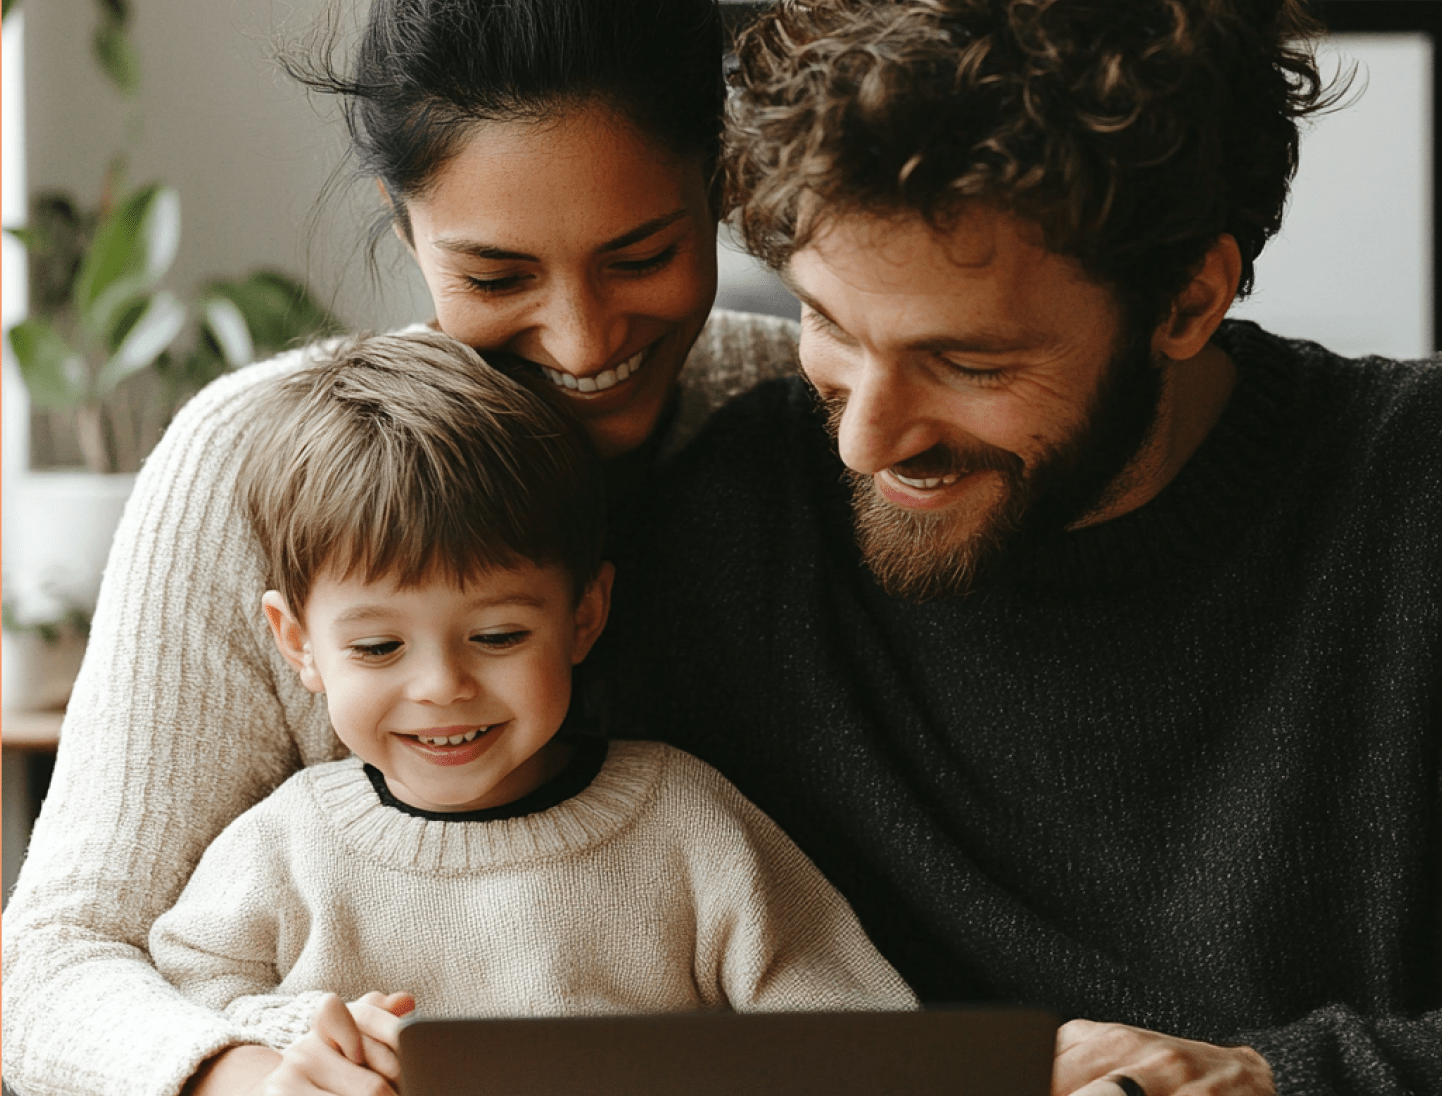
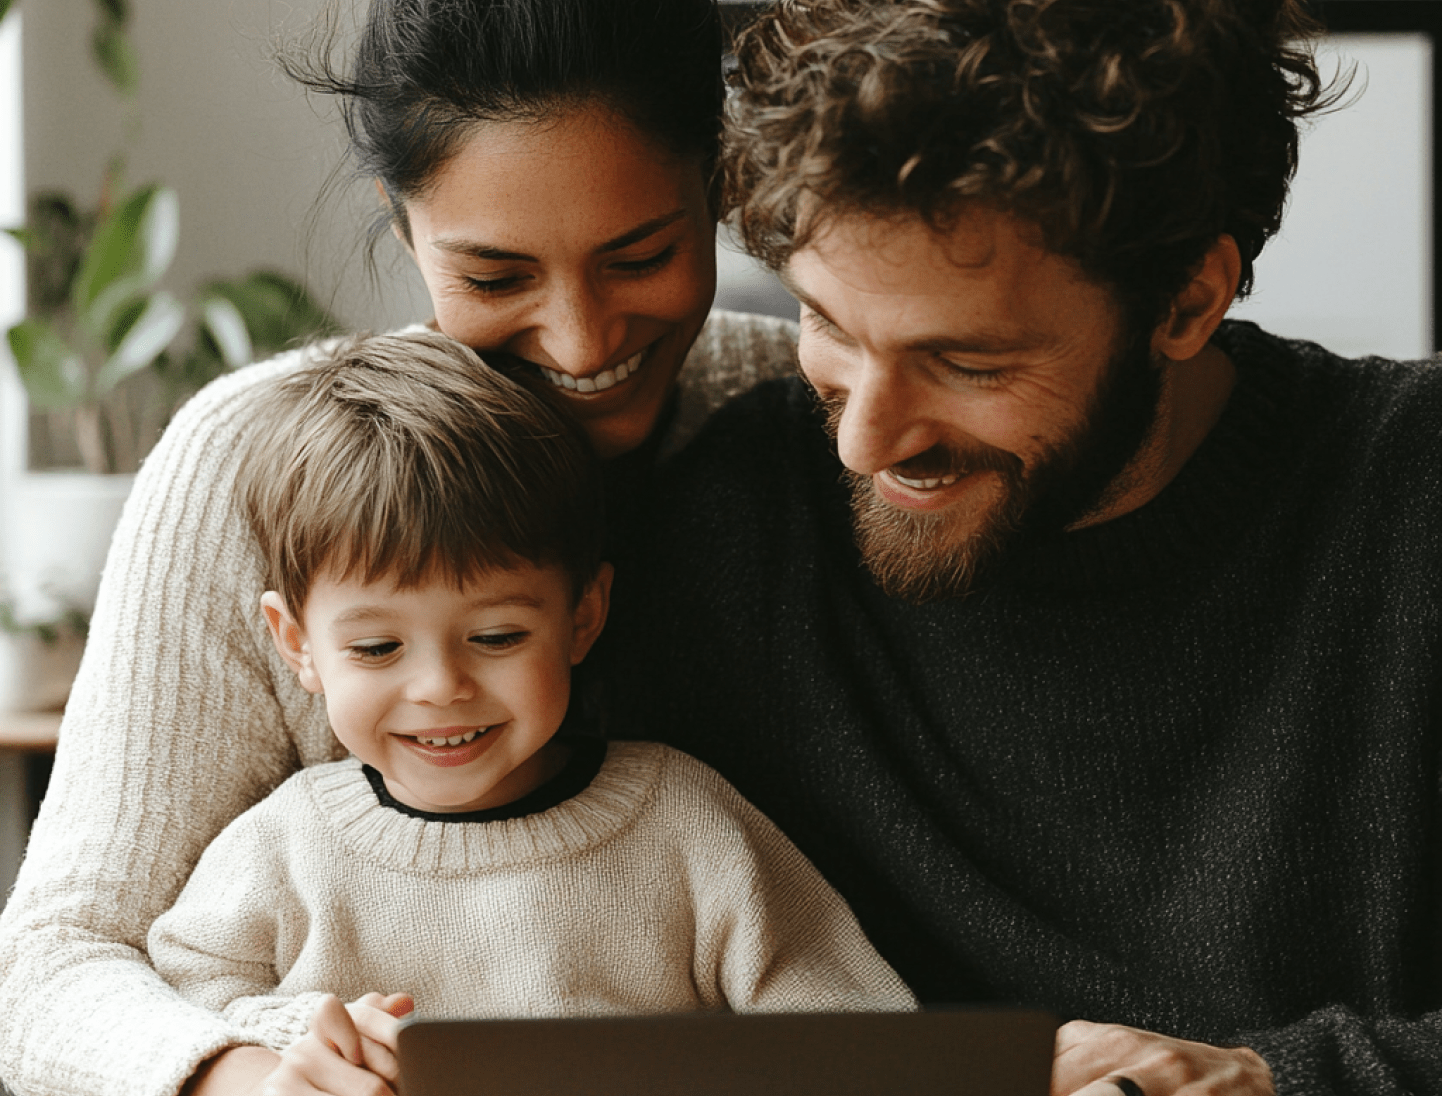
fixes

diff --git a/Template_03/index.html b/Template_03/index.html
@@ -156,6 +156,7 @@
           <img src="images/card-image-01.png" />
         </figure>
         <div class="card-body">
+          <div class="tag special">Buyers</div>
           <h6 class="card-title">Sell your property with ease</h6>
           <p class="font-bold text-[28px] leading-[1.2] mb-5">We know time is money, so use our AI technology to list your property in minutes and negotiate only with pre approved buyers</p>
           <div class="card-actions">
@@ -169,6 +170,7 @@
           <img src="images/card-image-02.png" />
         </figure>
         <div class="card-body">
+          <div class="tag special">Sellers</div>
           <h6 class="card-title">Looking for your next house?</h6>
           <p class="font-bold text-[28px] leading-[1.2] mb-5">Stop chasing the banks and get your mortgage pre-approval in just 24 hours</p>
           <div class="card-actions">

diff --git a/Template_03/style.css b/Template_03/style.css
@@ -135,6 +135,12 @@ body {
   color: #143D56;
 }
 
+.tag.special {
+  top: 28px;
+  left: 40px;
+  min-width: 96px;
+}
+
 h2 {
   color: var(--color-light);
   font-size: 60px;
@@ -158,6 +164,10 @@ h6 {
   font-family: 'graphik';
   font-weight: 500;
   font-size: 14px;
+}
+
+.card {
+  position: relative;
 }
 
 .color-card {
